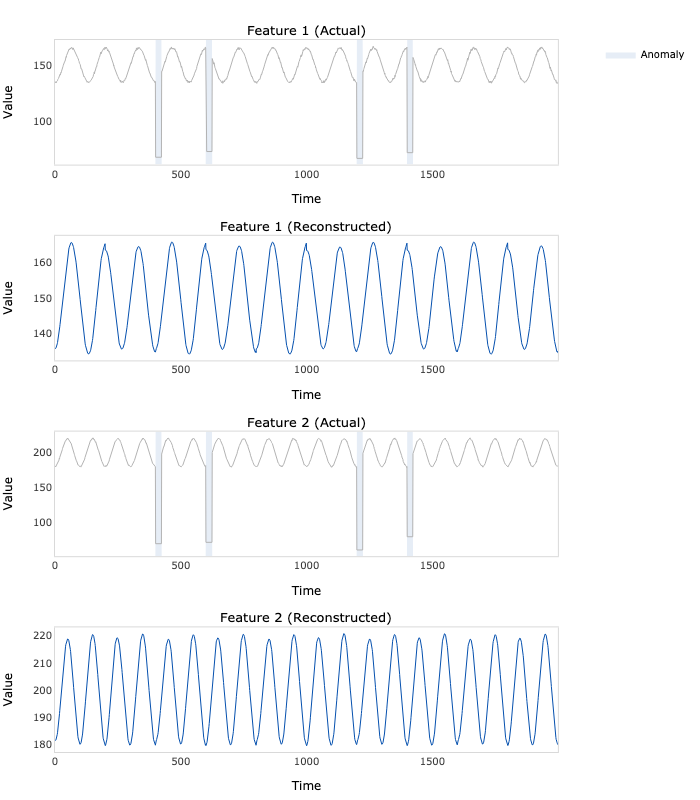
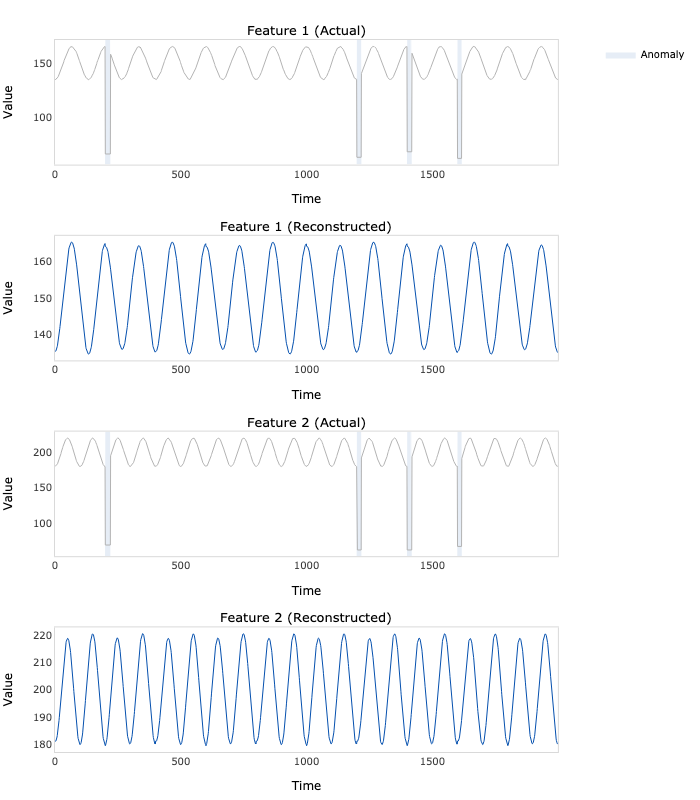
update example

diff --git a/example/example.py b/example/example.py
@@ -5,8 +5,8 @@ from encdec_ad_tensorflow.model import EncDecAD
 N = 2000
 t = np.linspace(0, 1, N)
 e = np.random.multivariate_normal(mean=np.zeros(2), cov=np.eye(2), size=N)
-a = 150 + 15 * np.cos(2 * np.pi * (15 * t - 0.5)) + 0.5 * e[:, 0]
-b = 200 + 20 * np.cos(2 * np.pi * (20 * t - 0.5)) + 0.5 * e[:, 1]
+a = 150 + 15 * np.cos(2 * np.pi * (15 * t - 0.5)) + 0.15 * e[:, 0]
+b = 200 + 20 * np.cos(2 * np.pi * (20 * t - 0.5)) + 0.20 * e[:, 1]
 x = np.hstack([a.reshape(- 1, 1), b.reshape(- 1, 1)])
 
 # Fit the model
@@ -25,13 +25,13 @@ model.fit(
 
 # Add some anomalies
 a = np.random.choice(a=[200 * p for p in range(1, N // 200 - 1)], replace=False, size=4)
-b = np.random.randint(low=20, high=30, size=4)
+b = np.random.randint(low=15, high=25, size=4)
 for i in range(4):
-    x[a[i]: a[i] + b[i], :] = np.random.randint(low=60, high=80, size=2)
+    x[a[i]: a[i] + b[i], :] = np.random.randint(low=60, high=70, size=2)
 
 # Score the anomalies
 reconstructions, scores = model.predict(x=x)
 
 # Plot the anomalies
-fig = model.plot(quantile=0.95)
+fig = model.plot(quantile=0.97)
 fig.write_image('anomalies.png', width=700, height=800)

diff --git a/README.MD b/README.MD
@@ -24,8 +24,8 @@ from encdec_ad_tensorflow.model import EncDecAD
 N = 2000
 t = np.linspace(0, 1, N)
 e = np.random.multivariate_normal(mean=np.zeros(2), cov=np.eye(2), size=N)
-a = 150 + 15 * np.cos(2 * np.pi * (15 * t - 0.5)) + 0.5 * e[:, 0]
-b = 200 + 20 * np.cos(2 * np.pi * (20 * t - 0.5)) + 0.5 * e[:, 1]
+a = 150 + 15 * np.cos(2 * np.pi * (15 * t - 0.5)) + 0.15 * e[:, 0]
+b = 200 + 20 * np.cos(2 * np.pi * (20 * t - 0.5)) + 0.20 * e[:, 1]
 x = np.hstack([a.reshape(- 1, 1), b.reshape(- 1, 1)])
 
 # Fit the model
@@ -44,15 +44,15 @@ model.fit(
 
 # Add some anomalies
 a = np.random.choice(a=[200 * p for p in range(1, N // 200 - 1)], replace=False, size=4)
-b = np.random.randint(low=20, high=30, size=4)
+b = np.random.randint(low=15, high=25, size=4)
 for i in range(4):
-    x[a[i]: a[i] + b[i], :] = np.random.randint(low=60, high=80, size=2)
+    x[a[i]: a[i] + b[i], :] = np.random.randint(low=60, high=70, size=2)
 
 # Score the anomalies
 reconstructions, scores = model.predict(x=x)
 
 # Plot the anomalies
-fig = model.plot(quantile=0.95)
+fig = model.plot(quantile=0.97)
 fig.write_image('anomalies.png', width=700, height=800)
 ```
 ![anomalies](example/anomalies.png)
